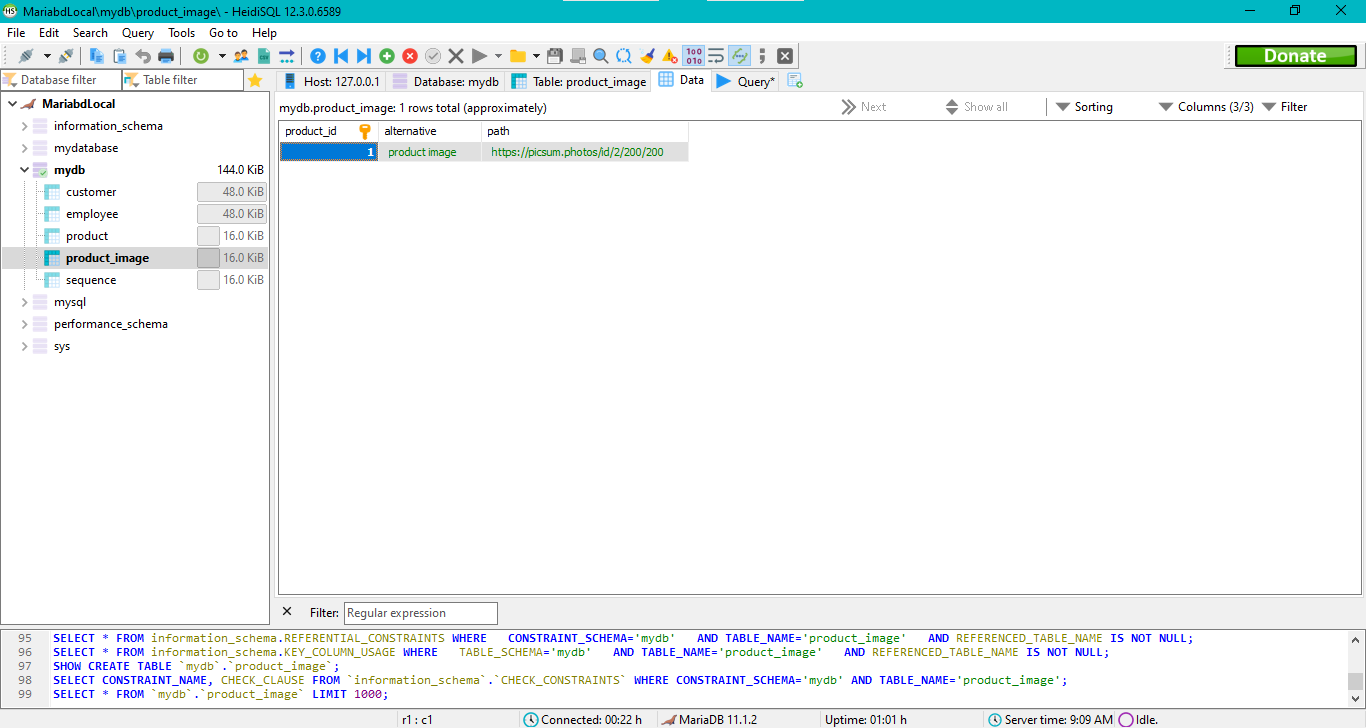
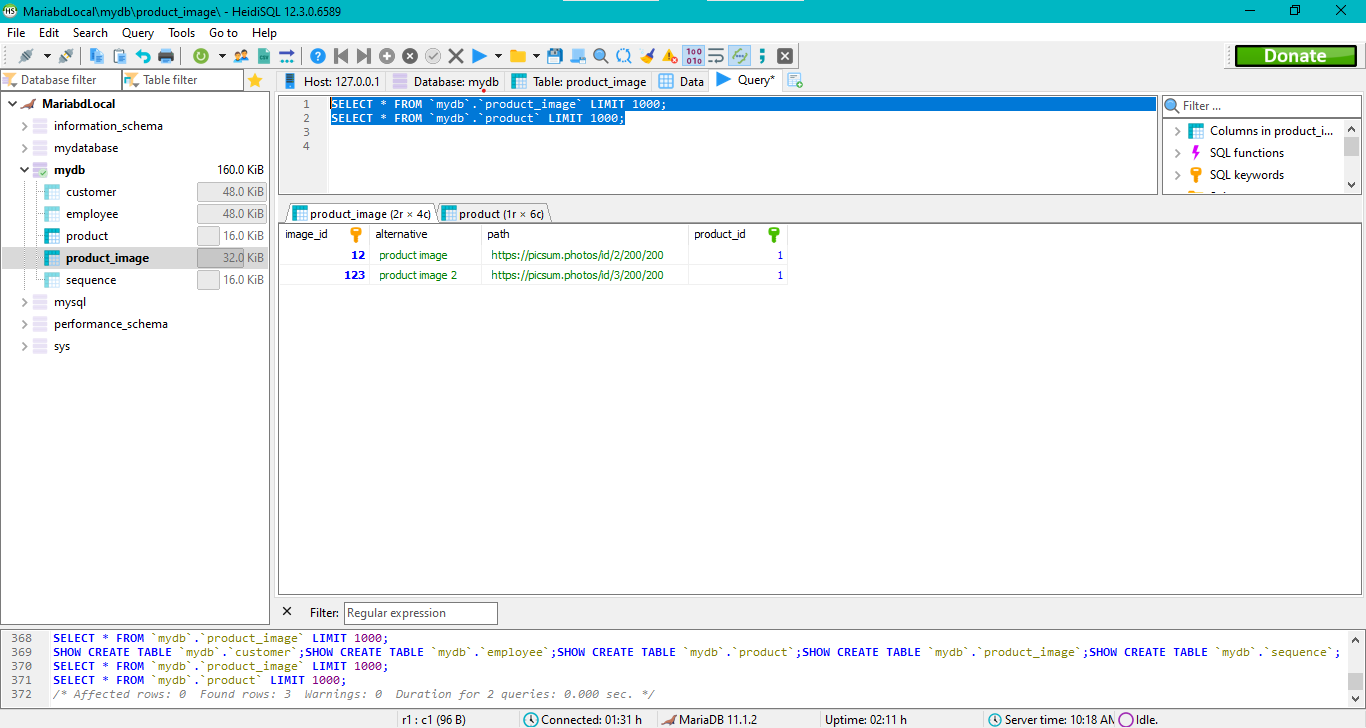
add JPA - product image - Product

diff --git a/week2_RestAPI/lab1-week2-rest-jpa-mariadb/src/main/java/vn/edu/iuh/fit/MainTextEntity.java b/week2_RestAPI/lab1-week2-rest-jpa-mariadb/src/main/java/vn/edu/iuh/fit/MainTextEntity.java
@@ -12,43 +12,65 @@ import vn.edu.iuh.fit.models.ProductImage;
 
 import java.sql.Date;
 import java.time.LocalDate;
+import java.util.ArrayList;
+import java.util.List;
 
 public class MainTextEntity {
 
     public static void main(String[] args) {
 
-        LocalDate date = LocalDate.of(2020, 1, 8);
-        Employee emp = new Employee();
-        emp.setName("Nguyen Van 1");
-        emp.setEmail("email@gmail.com");
-        emp.setPhone("0951753001");
-        emp.setDob(date);
-        emp.setAddress("12 phan co ich");
-        emp.setStatus(EmployeeStatus.IN_ACTIVE);
+//        LocalDate date = LocalDate.of(2020, 1, 8);
+//        Employee emp = new Employee();
+//        emp.setName("Nguyen Van 1");
+//        emp.setEmail("email@gmail.com");
+//        emp.setPhone("0951753001");
+//        emp.setDob(date);
+//        emp.setAddress("12 phan co ich");
+//        emp.setStatus(EmployeeStatus.IN_ACTIVE);
 
-        Product pro1 = new Product();
-        pro1.setName("Banh gao 1");
-        pro1.setUnit("don vi 1");
-        pro1.setDescription("Mo ta 1");
-        pro1.setManufacturerName("NSX Banh VN");
-        pro1.setStatus(ProductStatus.IN_ACTIVE);
+//        Product pro1 = new Product();
+//        pro1.setName("Banh gao 1");
+//        pro1.setUnit("don vi 1");
+//        pro1.setDescription("Mo ta 1");
+//        pro1.setManufacturerName("NSX Banh VN");
+//        pro1.setStatus(ProductStatus.IN_ACTIVE);
 
-        Customer cus = new Customer();
-        cus.setName("Tran binh");
-        cus.setEmail("Binh@gmail.com");
-        cus.setPhone("0951753002");
-        cus.setAddress("12 phan co ich");
+//        Customer cus = new Customer();
+//        cus.setName("Tran binh");
+//        cus.setEmail("Binh@gmail.com");
+//        cus.setPhone("0951753002");
+//        cus.setAddress("12 phan co ich");
 
         ProductImage image = new ProductImage();
+        image.setId(12L);
         image.setPath("https://picsum.photos/id/2/200/200");
         image.setAlternative("product image");
+
+        ProductImage image1 = new ProductImage();
+        image1.setId(123L);
+        image1.setPath("https://picsum.photos/id/3/200/200");
+        image1.setAlternative("product image 2");
+
+        // test JPA
+        Product pro2 = new Product();
+        pro2.setName("Banh gao 1");
+        pro2.setUnit("don vi 1");
+        pro2.setDescription("Mo ta 1");
+        pro2.setManufacturerName("NSX Banh VN");
+        pro2.setStatus(ProductStatus.IN_ACTIVE);
+        List<ProductImage> lst = new ArrayList<>();
+        image.setProduct(pro2);
+        lst.add(image);
+        image1.setProduct(pro2);
+        lst.add(image1);
+        pro2.setProductImages(lst);
 
 
         EntityManagerFactory entityManagerFactory = Persistence.createEntityManagerFactory("default");
         EntityManager entityManager = entityManagerFactory.createEntityManager();
 
         entityManager.getTransaction().begin();
-        entityManager.persist(image);
+        entityManager.persist(pro2);
         entityManager.getTransaction().commit();
         entityManager.close();
         entityManagerFactory.close();

diff --git a/week2_RestAPI/lab1-week2-rest-jpa-mariadb/src/main/java/vn/edu/iuh/fit/models/ProductImage.java b/week2_RestAPI/lab1-week2-rest-jpa-mariadb/src/main/java/vn/edu/iuh/fit/models/ProductImage.java
@@ -4,22 +4,31 @@ import jakarta.persistence.*;
 
 /**
  * product_image (product_id, image_id, path, alternative)
- *
  */
 @Entity
 @Table(name = "product_image")
 public class ProductImage {
     @Id
     @GeneratedValue
-    @Column(name = "product_id")
+    @Column(name = "image_id")
     private long id;
     @Column(name = "path", nullable = false)
     private String path; // src
-    @Column(name = "alternative", nullable = false)
+    @Column(name = "alternative")
     private String alternative;
 
     //JPA
+    @ManyToOne
+    @JoinColumn(name = "product_id")
+    private Product product;
 
+    public Product getProduct() {
+        return product;
+    }
+
+    public void setProduct(Product product) {
+        this.product = product;
+    }
 
     @Override
     public String toString() {

diff --git a/week2_RestAPI/lab1-week2-rest-jpa-mariadb/src/main/java/vn/edu/iuh/fit/models/Product.java b/week2_RestAPI/lab1-week2-rest-jpa-mariadb/src/main/java/vn/edu/iuh/fit/models/Product.java
@@ -3,6 +3,8 @@ package vn.edu.iuh.fit.models;
 import jakarta.persistence.*;
 import vn.edu.iuh.fit.enums.ProductStatus;
 
+import java.util.List;
+
 /**
  * product (product_id, name
  * , description : mieu ta
@@ -27,7 +29,18 @@ public class Product {
     private String manufacturerName;
     @Column(name = "status")
     private ProductStatus status;
-//
+
+    //JPA
+    @OneToMany(mappedBy = "product",cascade = CascadeType.PERSIST)
+    private List<ProductImage> productImages;
+
+    public List<ProductImage> getProductImages() {
+        return productImages;
+    }
+
+    public void setProductImages(List<ProductImage> productImages) {
+        this.productImages = productImages;
+    }
 
     public Product(long id, String name
             , String description, String unit
